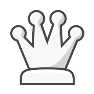
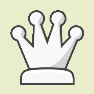
Add opposite bg images

diff --git a/recognize_pieces.py b/recognize_pieces.py
@@ -1,0 +1,47 @@
+import cv2
+import numpy as np
+import os
+
+template_path = "template.png"
+template = cv2.imread(template_path)
+
+template_size = template.shape[0]
+
+line_distance = template_size // 8
+
+for i in range(8):
+    for j in range(8):
+        x1, y1 = j * line_distance, i * line_distance
+        x2, y2 = (j + 1) * line_distance, (i + 1) * line_distance
+
+        cell = template[y1:y2, x1:x2]
+
+        pieces_folder = "./resized_pieces"
+        for piece_file in os.listdir(pieces_folder):
+            if piece_file.endswith(".png"):
+                piece_path = os.path.join(pieces_folder, piece_file)
+                piece = cv2.imread(piece_path, cv2.IMREAD_UNCHANGED)
+                
+                if piece.shape[2] == 4:
+                    piece = cv2.cvtColor(piece, cv2.COLOR_BGRA2BGR)
+
+                piece = cv2.resize(piece, (cell.shape[1], cell.shape[0]))
+
+                result = cv2.matchTemplate(cell, piece, cv2.TM_CCOEFF_NORMED)
+
+                threshold = 0.8  
+
+                locations = np.where(result >= threshold)
+
+                for loc in zip(*locations[::-1]):
+                    top_left = (x1 + loc[0], y1 + loc[1])
+                    bottom_right = (top_left[0] + piece.shape[1], top_left[1] + piece.shape[0])
+                    cv2.rectangle(template, top_left, bottom_right, (0, 0, 255), 2)
+
+                    # Print the position of the detected piece in the cell
+                    print(f"  Piece {piece_file}: ({top_left[0]}, {top_left[1]}) to ({bottom_right[0]}, {bottom_right[1]})")
+
+# Display the template image with bounding boxes
+cv2.imshow("Template with Bounding Boxes", template)
+cv2.waitKey(0)
+cv2.destroyAllWindows()

diff --git a/image_augmentation.py b/image_augmentation.py
@@ -1,0 +1,29 @@
+import cv2
+import os
+import numpy as np
+
+def replace_color(image_path, original_color, new_color):
+    image = cv2.imread(image_path)
+    lower_bound = np.array(original_color, dtype=np.uint8)
+    upper_bound = np.array(original_color, dtype=np.uint8)
+    mask = cv2.inRange(image, lower_bound, upper_bound)
+    image[np.where(mask > 0)] = new_color
+    filename = os.path.splitext(os.path.basename(image_path))[0]
+    output_path = os.path.join(os.path.dirname(image_path), f"{filename}_white_bg.png")
+    cv2.imwrite(output_path, image)
+    print(f"Image saved: {output_path}")
+
+input_folder = "pieces"
+subfolders = ["black_pieces", "white_pieces"]
+
+# Chess.com Neo Board
+white_color = [204, 237, 233]  # Color #e9edcc
+black_color = [84, 153, 84]    # Color #779954
+
+for subfolder in subfolders:
+    input_folder = os.path.join("pieces", subfolder)
+    for filename in os.listdir(input_folder):
+        if filename.endswith(".png") or filename.endswith(".jpg"):
+            image_path = os.path.join(input_folder, filename)
+            print(image_path)
+            replace_color(image_path, black_color, white_color)

diff --git a/image_resizing.py b/image_resizing.py
@@ -7,19 +7,12 @@ desired_size = (int(board_size/8), int(board_size/8))
 resized_folder_path = "./resized_pieces"
 os.makedirs(resized_folder_path, exist_ok=True)
 
-# Iterate through all images in the "pieces" folder
 pieces_folder = "./pieces"
 for filename in os.listdir(pieces_folder):
     if filename.endswith(".png") or filename.endswith(".jpg"):
-        # Load the piece image
         piece_path = os.path.join(pieces_folder, filename)
         piece_image = cv2.imread(piece_path, cv2.IMREAD_UNCHANGED)
-
-        # Resize the piece image
         resized_piece = cv2.resize(piece_image, desired_size)
-
-        # Save the resized piece in the "resized_pieces" folder
         resized_piece_path = os.path.join(resized_folder_path, filename)
         cv2.imwrite(resized_piece_path, resized_piece)
-
 print("Resizing completed.")
